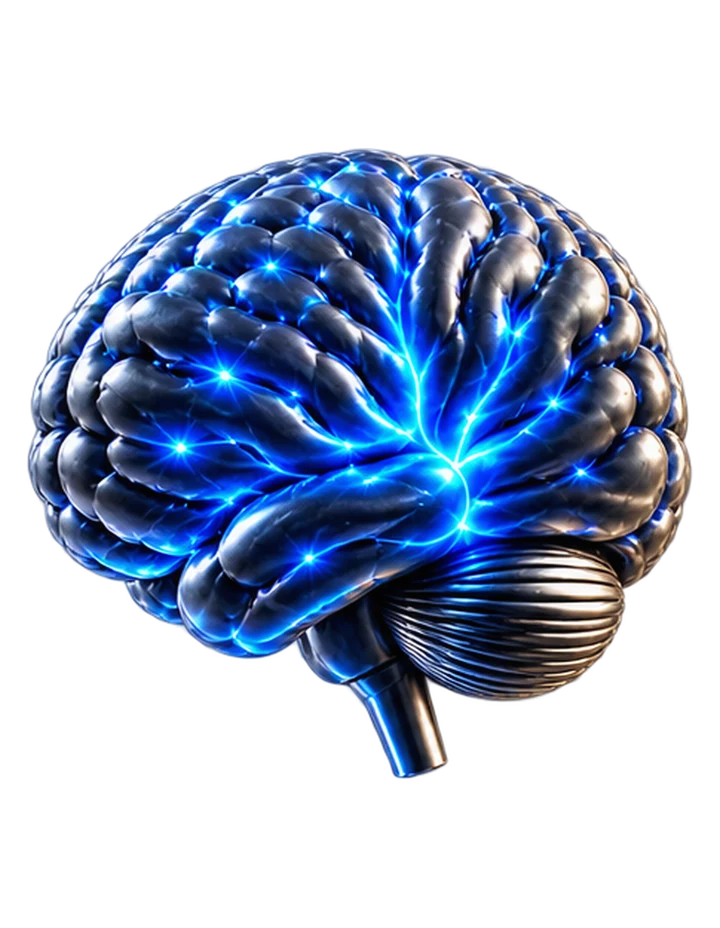
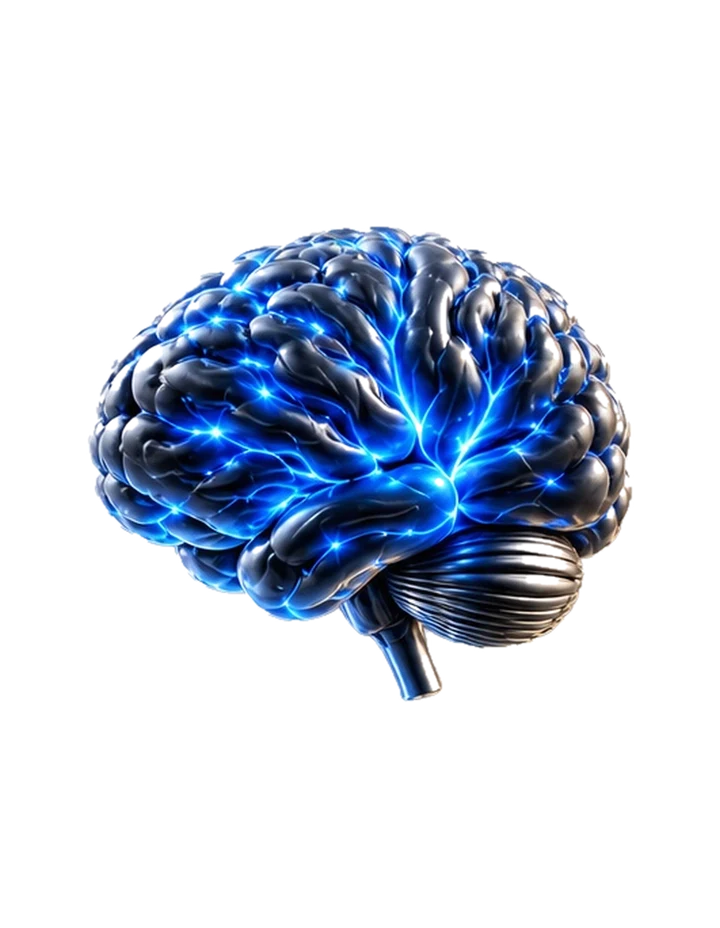
TEST: complete (uncut) transparent category pictures
Claude-Session: https://claude.ai/code/session_01Ak37PopmRyxdyWRVkbaa1v

diff --git a/marketplace-usi-slider.html b/marketplace-usi-slider.html
@@ -30,8 +30,8 @@ let products=[
  ["email","Agent","Email Writer","Drafts clear, polite, ready-to-send emails for any situation."],
  ["quiz","Agent","Quiz Master","Runs a multiple-choice quiz on any topic and keeps your score."]
 ].map(([a,type,title,desc])=>({id:'house'+a,type,title,desc,price:0,creator:'Use Superintelligence',url:SITE+'/agents/'+a,house:true,featured:false,image:'marketplace/astral-v2/'+title.toLowerCase().replace(/[^a-z0-9]+/g,'-')+'.webp',gets:HOUSE_GETS}));
-products.push({id:'houseprompts-work',type:'Prompt pack',title:'AI at Work Prompt Pack',desc:'25 copy-ready prompts for email, meetings, planning, research and customers. Works with any AI chat.',price:0,creator:'Use Superintelligence',url:'https://xyxailab-max.github.io/superintelligence-3d-test/prompts/ai-at-work.html',house:true,featured:false,image:'marketplace/categories/prompts-templates.webp?v=4',gets:['Free, no sign-up','25 prompts in 5 groups','One-tap copy']});
-products.push({id:'housecourse-work',type:'Course',title:'AI at Work in 5 Lessons',desc:'A free beginner mini-course: 5 short lessons, each with a 5-minute practice task. About 30 minutes total.',price:0,creator:'Use Superintelligence',url:'https://xyxailab-max.github.io/superintelligence-3d-test/courses/ai-at-work.html',house:true,featured:false,image:'marketplace/categories/courses.webp?v=4',gets:['Free, no sign-up','5 lessons, about 30 minutes','Practice task in every lesson']});
+products.push({id:'houseprompts-work',type:'Prompt pack',title:'AI at Work Prompt Pack',desc:'25 copy-ready prompts for email, meetings, planning, research and customers. Works with any AI chat.',price:0,creator:'Use Superintelligence',url:'https://xyxailab-max.github.io/superintelligence-3d-test/prompts/ai-at-work.html',house:true,featured:false,image:'marketplace/categories/prompts-templates.webp?v=5',gets:['Free, no sign-up','25 prompts in 5 groups','One-tap copy']});
+products.push({id:'housecourse-work',type:'Course',title:'AI at Work in 5 Lessons',desc:'A free beginner mini-course: 5 short lessons, each with a 5-minute practice task. About 30 minutes total.',price:0,creator:'Use Superintelligence',url:'https://xyxailab-max.github.io/superintelligence-3d-test/courses/ai-at-work.html',house:true,featured:false,image:'marketplace/categories/courses.webp?v=5',gets:['Free, no sign-up','5 lessons, about 30 minutes','Practice task in every lesson']});
 const TYPES=["All","Featured","Free","Agent","Course","Prompt pack","Template","Automation","Tool"];
 const grid=document.getElementById('grid'),dock=document.getElementById('dock'),filter=document.getElementById('filter'),search=document.getElementById('search'),detail=document.getElementById('detail');
 function esc(s){return String(s).replace(/[&<>"']/g,c=>({'&':'&amp;','<':'&lt;','>':'&gt;','"':'&quot;',"'":'&#39;'}[c]))}
@@ -258,7 +258,7 @@ const C=[['AI Agents','AI Agents','ai-agents',['Agent']],['AI Tools & Automation
  ['Courses','Courses','courses',['Course']],['Software','Software','software',[]]];
 function build(){const cur=filter.value||'All',opts=[...filter.options].map(o=>o.value);
  dots.innerHTML=C.map(([full,short,file,types])=>{const t=types.find(x=>opts.includes(x)&&products.some(p=>p.type===x)),on=types.includes(cur),
-  img=`<img class="usi-im" src="marketplace/categories/${file}.webp?v=4" width="720" height="960" alt="" draggable="false">`;
+  img=`<img class="usi-im" src="marketplace/categories/${file}.webp?v=5" width="720" height="960" alt="" draggable="false">`;
   return t?`<button class="ic${on?' on':''}" type="button" data-cat="${esc(on?cur:t)}" aria-label="${esc('Show '+full)}" aria-pressed="${on}">${img}<span>${esc(short)}</span></button>`
    :`<span class="usi-off" role="img" aria-label="${esc(full)}, coming soon">${img}<span>${esc(short)}</span></span>`}).join('');
  dispatchEvent(new Event('resize'))}
